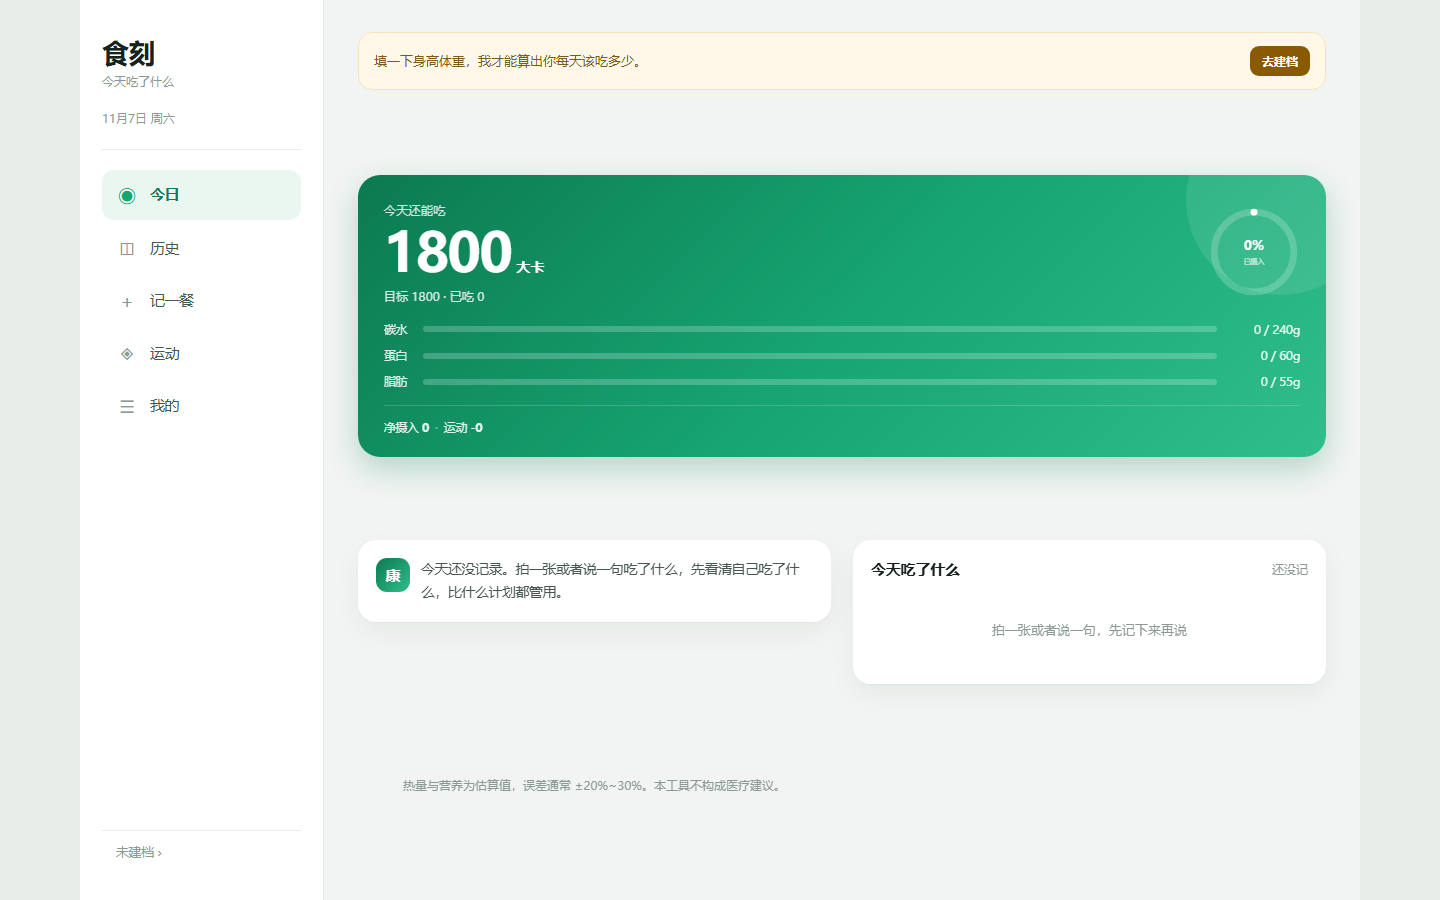
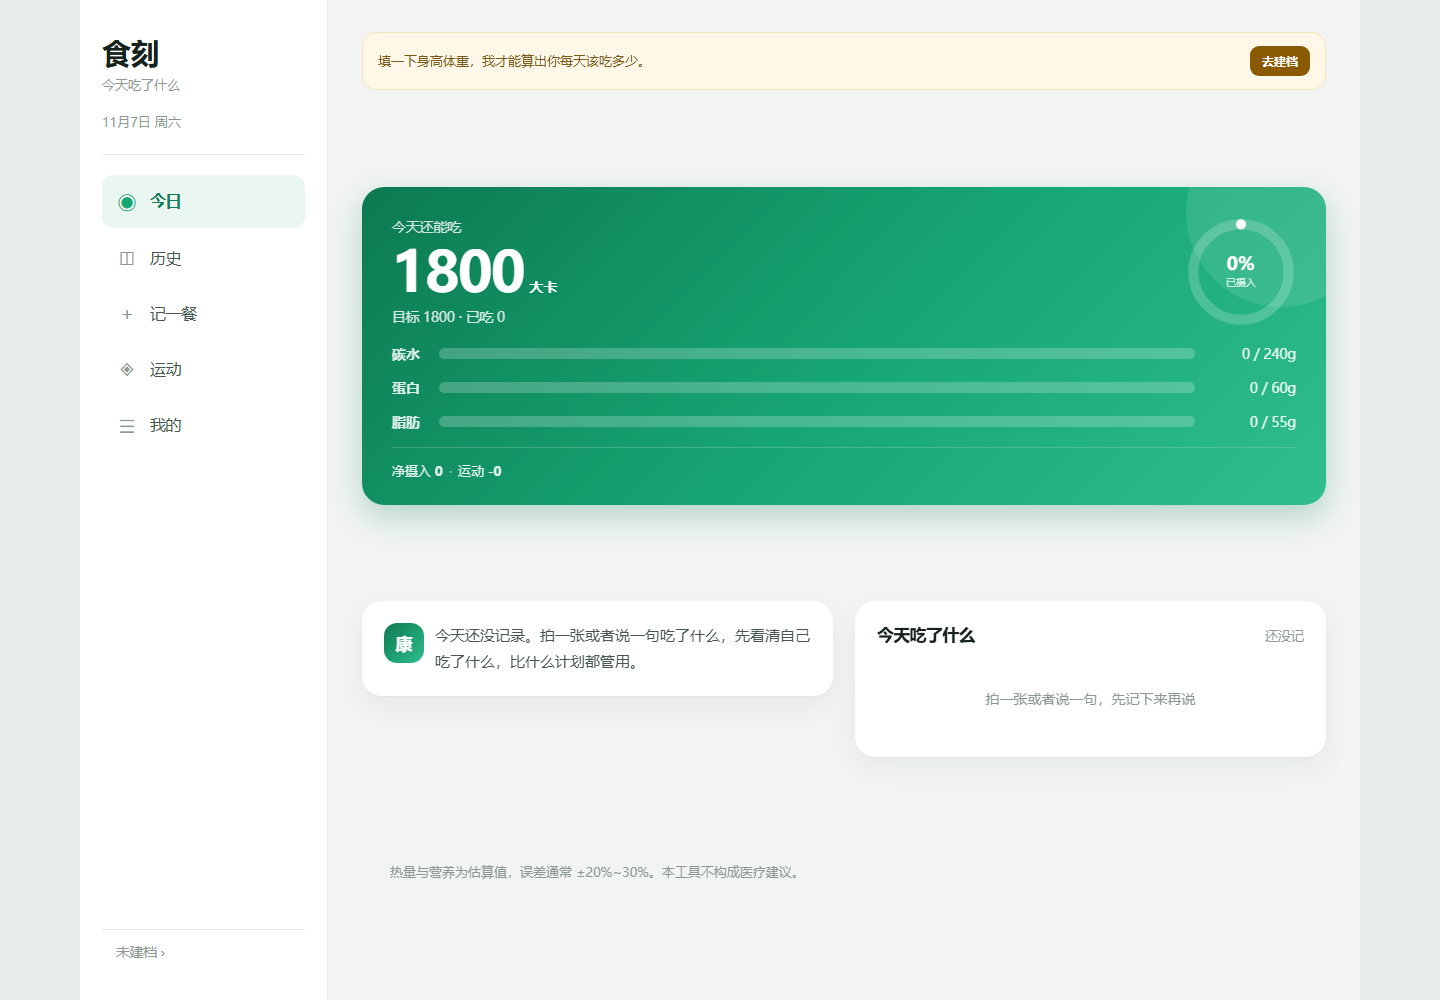
style: 桌面端字体放大、进度条加粗、布局美化，README 说明同步

diff --git a/css/style.css b/css/style.css
@@ -716,16 +716,26 @@ main > *:nth-child(6) { animation-delay: .15s; }
 @media (min-width: 1024px) {
   body { background: #E8EDEA; }
 
+  /* 桌面端整体字号放大，读起来更舒服 */
+  body { font-size: 16px; }
+
   #app {
     max-width: 1280px;
     padding-bottom: 0;
     display: grid;
-    grid-template-columns: 244px minmax(0, 1fr);
+    grid-template-columns: 248px minmax(0, 1fr);
     box-shadow: none;
   }
 
   .topbar { display: none; }
   #tabbar { display: none; }
+
+  /* 卡片更透气 */
+  .card { padding: 22px; margin-bottom: 16px; border-radius: 20px; }
+  .card-hd h2 { font-size: 16.5px; }
+  .card-hd .r { font-size: 13px; }
+  .tiny { font-size: 13px; }
+  .empty { font-size: 14px; }
 
   /* 左侧导航 */
   .side {
@@ -740,14 +750,14 @@ main > *:nth-child(6) { animation-delay: .15s; }
   }
 
   .side-brand {
-    font-size: 27px;
+    font-size: 29px;
     font-weight: 700;
     letter-spacing: -0.5px;
     line-height: 1.2;
   }
   .side-brand span {
     display: block;
-    font-size: 12px;
+    font-size: 13px;
     font-weight: 400;
     color: var(--muted);
     letter-spacing: 0;
@@ -756,7 +766,7 @@ main > *:nth-child(6) { animation-delay: .15s; }
 
   .side-date {
     margin-top: 20px;
-    font-size: 12px;
+    font-size: 13px;
     color: var(--muted);
     padding-bottom: 22px;
     border-bottom: 1px solid var(--line);
@@ -768,22 +778,22 @@ main > *:nth-child(6) { animation-delay: .15s; }
     display: flex;
     align-items: center;
     gap: 12px;
-    padding: 12px 14px;
+    padding: 13px 14px;
     border-radius: 12px;
-    font-size: 14.5px;
+    font-size: 15.5px;
     font-weight: 500;
     color: var(--ink2);
     text-align: left;
     transition: background .16s, color .16s;
   }
-  .snav .si { font-size: 18px; width: 22px; text-align: center; color: var(--muted); }
+  .snav .si { font-size: 19px; width: 22px; text-align: center; color: var(--muted); }
   .snav:hover { background: #F4F8F6; }
   .snav.on { background: var(--brand-l); color: var(--brand-d); font-weight: 600; }
   .snav.on .si { color: var(--brand); }
 
   .side-who {
     margin-top: auto;
-    font-size: 12.5px;
+    font-size: 13.5px;
     color: var(--muted);
     padding: 12px 14px;
     border-top: 1px solid var(--line);
@@ -816,8 +826,65 @@ main > *:nth-child(6) { animation-delay: .15s; }
   }
 
   /* 首页热量卡在宽屏下更舒展 */
-  main.tab-home > .hero { padding: 26px 26px 20px; }
-  main.tab-home .hero-big { font-size: 54px; }
+  main.tab-home > .hero { padding: 30px 30px 24px; }
+  main.tab-home .hero-big { font-size: 56px; }
+  main.tab-home .hero-label { font-size: 13.5px; }
+  main.tab-home .hero-sub { font-size: 13.5px; }
+  main.tab-home .hero-foot { font-size: 13px; }
+
+  /* 热量卡：环形进度条加粗、更醒目 */
+  main.tab-home .ring { width: 110px; height: 110px; }
+  main.tab-home .ring-bg { stroke-width: 11; }
+  main.tab-home .ring-fg { stroke-width: 11; }
+  main.tab-home .ring-txt { font-size: 20px; }
+  main.tab-home .ring-txt2 { font-size: 11px; }
+
+  /* 宏量营养素进度条：加粗、加高，标签更清楚 */
+  main.tab-home .mbar { gap: 11px; margin-bottom: 13px; }
+  main.tab-home .mbar .n { font-size: 14px; width: 36px; font-weight: 600; }
+  main.tab-home .mbar .t { height: 11px; }
+  main.tab-home .mbar .v { font-size: 13.5px; width: 90px; }
+
+  /* 点评与提示文字放大 */
+  .coach .txt { font-size: 15px; }
+  .coach .avatar { width: 40px; height: 40px; font-size: 17px; border-radius: 13px; }
+  .tip-t { font-size: 15px; }
+  .tip-b { font-size: 14px; }
+  .chip { font-size: 13px; padding: 7px 13px; }
+
+  /* 记录列表字号放大 */
+  .meal-hd .name { font-size: 15px; }
+  .meal-hd .time { font-size: 13px; }
+  .meal-hd .kcal { font-size: 15.5px; }
+  .meal-item { font-size: 14px; }
+  .meal-item .g, .meal-item .k { font-size: 13px; }
+  .day .d1 { font-size: 15px; }
+  .day .d2 { font-size: 13px; }
+  .day .d3 { font-size: 15.5px; }
+
+  /* 7 天趋势柱状图：更粗更清晰 */
+  .chart { height: 180px; gap: 10px; }
+  .chart .bar { border-radius: 9px 9px 4px 4px; }
+  .chart .lab { font-size: 12.5px; }
+  .chart .val { font-size: 11.5px; }
+
+  /* 表单控件字号放大 */
+  .seg button { font-size: 14.5px; }
+  .field label { font-size: 13px; }
+  .input { font-size: 16px; }
+  .btn { font-size: 16px; }
+  .food .fn { font-size: 15px; }
+  .food .fp { font-size: 13px; }
+  .food .fk { font-size: 13px; }
+  .sport .sn { font-size: 14.5px; }
+  .sport .sm { font-size: 12.5px; }
+  .durs button { font-size: 14px; }
+  .burn b { font-size: 34px; }
+  .burn span { font-size: 13.5px; }
+  .setting { font-size: 15px; }
+  .setting .v { font-size: 14px; }
+  .draft-name { font-size: 15px; }
+  .draft-meta { font-size: 13px; }
 
   /* 底部弹层在桌面上收成居中宽卡片 */
   .sheet {

diff --git a/README.md b/README.md
@@ -14,7 +14,7 @@
 
 ## 界面
 
-桌面端：左侧固定导航，内容双列排布。
+桌面端：左侧固定导航，内容双列排布；字号整体放大、热量环与宏量进度条加粗，长时使用更省眼。
 
 ![桌面端](docs/screenshot-desktop.png)
 
